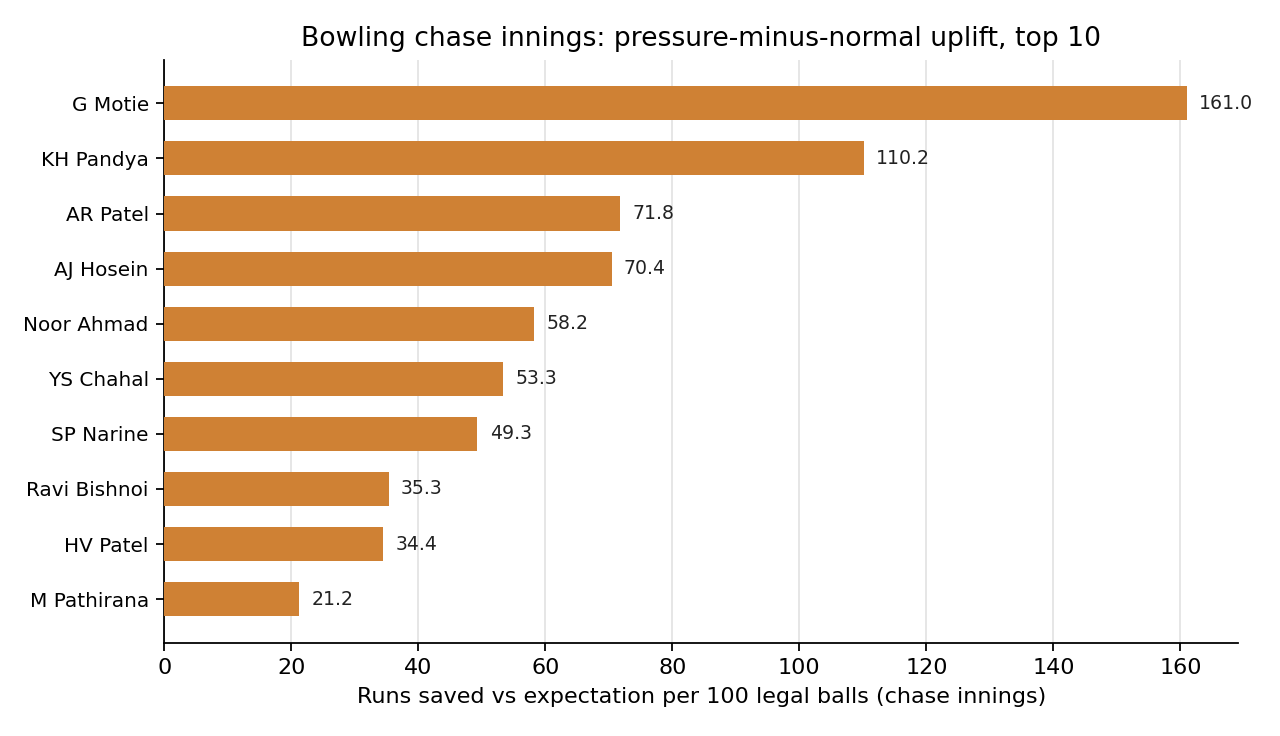
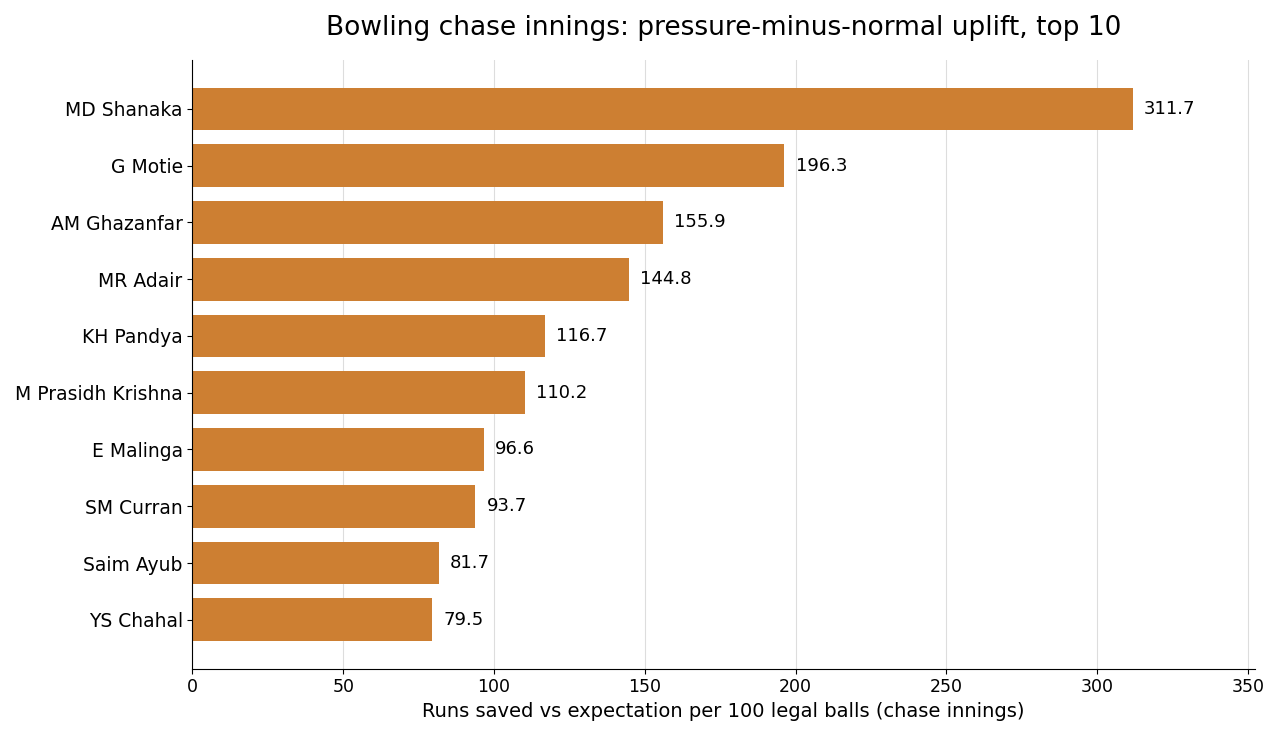
Correct innings bowling view counts and chase uplift chart

diff --git a/dashboard/docs/VERIFICATION.md b/dashboard/docs/VERIFICATION.md
@@ -6,14 +6,14 @@ Build checked on 14 November 2026. This record covers the website and aggregate 
 
 - 9 Node tests pass: combined filters, immutable ordering, distinct source lists, ordering options, null metrics, numeric schema validation, explicit missing-data state, file allowlist/method restrictions and dataset route.
 - 2 Python unit tests pass for finite numeric parsing and null handling.
-- Aggregate integrity check passes for 649 batters and six bowling views (123 overall, 35 funnel, 108 chase pressure, 36 chase uplift, 156 first-innings pressure, 63 first-innings uplift). 6,204 numeric comparisons plus membership/order checks match their input exports. The pooled funnel view reproduces the official bowling top 10 exactly.
+- Aggregate integrity check passes for 649 batters and six bowling views (123 overall, 35 funnel, 123 chase pressure, 73 chase uplift, 176 first-innings pressure, 108 first-innings uplift). 6,321 numeric comparisons plus membership/order checks match their input exports. The pooled funnel view reproduces the official bowling top 10 exactly.
 - The dataset passes the site's own contract validation before serving.
 
 ## Interaction coverage
 
 Batting top-10 count, quota pool, empty search, pressure-level interval absence, all six bowling view leaders, innings switching including the both-innings funnel view, published funnel order, player comparison and CSV download were checked against the built dataset. Sample-qualified and active eligibility counts reproduce as 130 and 122.
 
-Observed leaders in this build: TH David (batting analysis top 10); Sufiyan Muqeem (bowling overall); Haris Rauf (first-innings pressure); AM Ghazanfar (chase pressure); M Pathirana (first-innings uplift and the pooled funnel list); G Motie (chase uplift).
+Observed leaders in this build: TH David (batting analysis top 10); Abbas Afridi (bowling overall); R Mondol (first-innings pressure); MD Shanaka (chase pressure and chase uplift); Haris Rauf (first-innings uplift); M Pathirana (the pooled funnel list).
 
 ## Visual inspection
 
